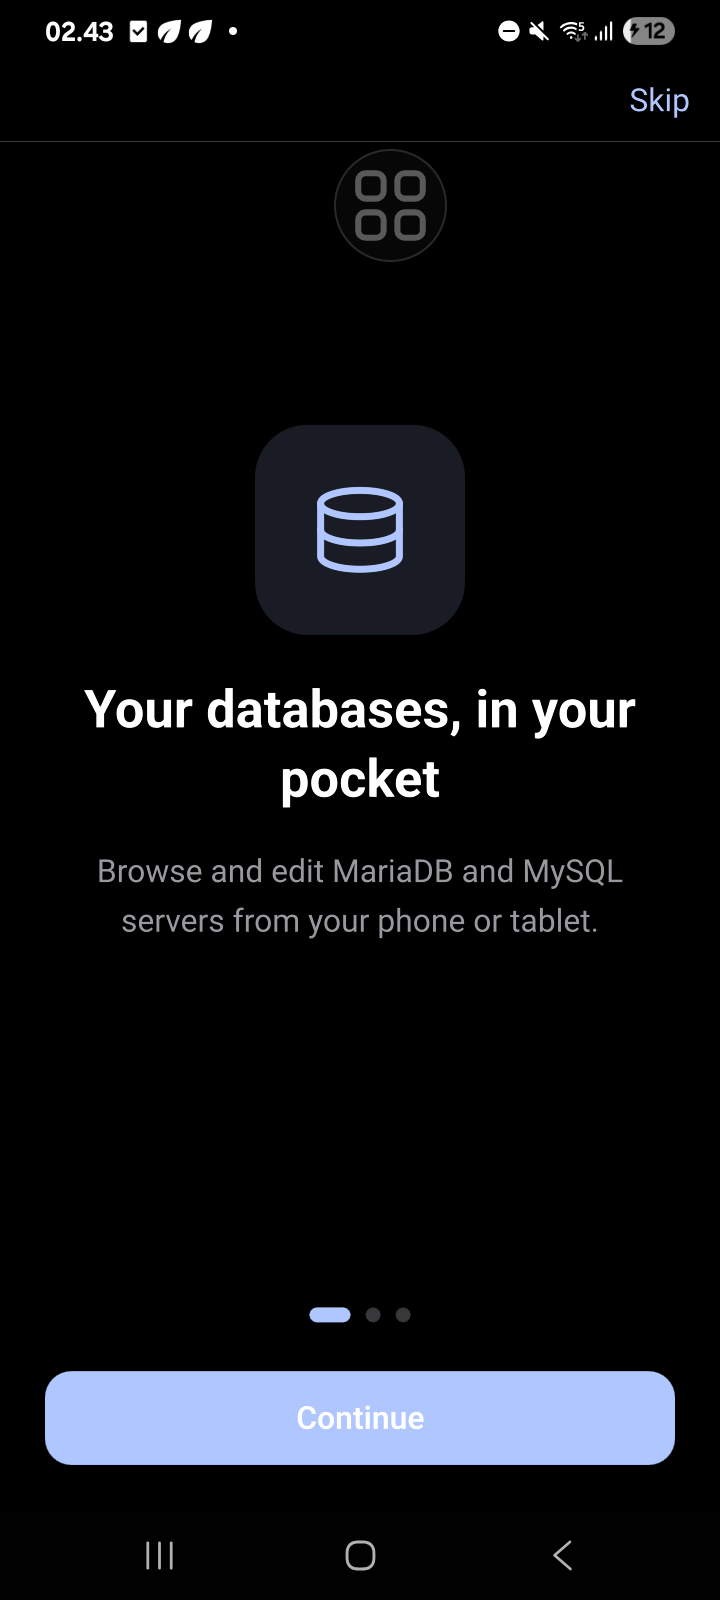
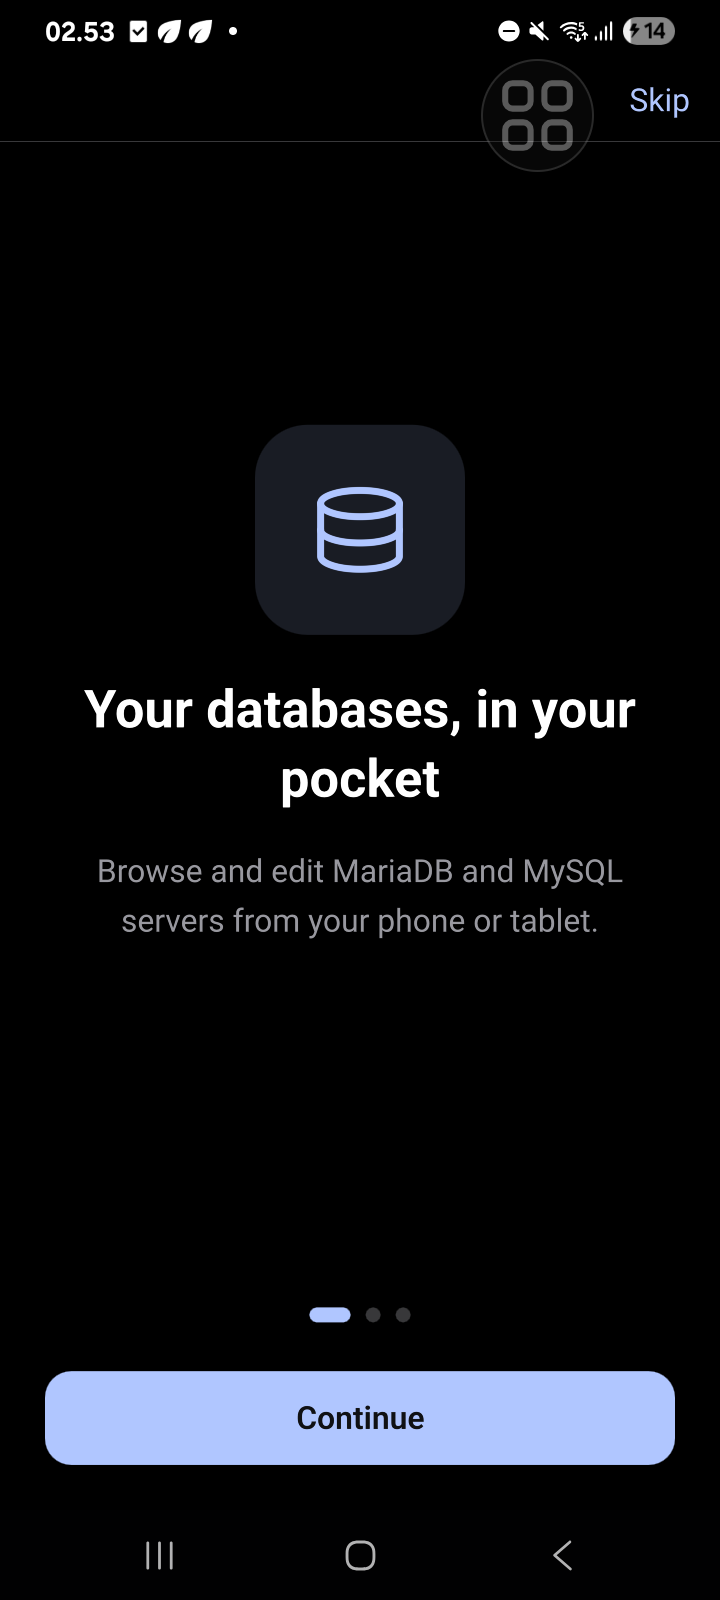
F1: keyboard-aware form scrolling

diff --git a/qml/FormFlickable.qml b/qml/FormFlickable.qml
@@ -1,0 +1,31 @@
+import QtQuick
+
+// Scrolling form container: shrinks above the on-screen keyboard and keeps the focused field visible.
+Flickable {
+    id: f
+    default property alias content: holder.data
+    property real contentPadding: 48
+
+    anchors.bottomMargin: Theme.safeIme
+    contentWidth: width
+    contentHeight: holder.childrenRect.height + (Theme.safeIme > 0 ? 24 : Theme.safeBottom + contentPadding)
+    boundsBehavior: Flickable.StopAtBounds
+    clip: true
+    interactive: contentHeight > height
+    onMovementStarted: Qt.inputMethod.hide()
+
+    Item { id: holder; width: f.width }
+
+    function ensureVisible() {
+        const it = Window.window ? Window.window.activeFocusItem : null
+        if (!it || !it.visible) return
+        // walk up to check it lives inside this flickable
+        for (var p = it; p; p = p.parent) if (p === holder) break
+        if (!p) return
+        const y = it.mapToItem(holder, 0, 0).y
+        if (y < contentY) contentY = Math.max(0, y - 16)
+        else if (y + it.height > contentY + height) contentY = Math.min(contentHeight - height, y + it.height - height + 16)
+    }
+    Connections { target: Window.window; function onActiveFocusItemChanged() { Qt.callLater(f.ensureVisible) } }
+    Connections { target: Theme; function onSafeImeChanged() { Qt.callLater(f.ensureVisible) } }
+}

diff --git a/qml/Theme.qml b/qml/Theme.qml
@@ -33,6 +33,7 @@ QtObject {
     readonly property real safeTop: platform ? platform.insets.top : 0
     readonly property real safeBottom: platform ? platform.insets.bottom : 0
     readonly property real safeLeft: platform ? platform.insets.left : 0
+    readonly property real safeIme: platform ? platform.insets.ime : 0   // on-screen keyboard height
     readonly property real safeRight: platform ? platform.insets.right : 0
 
     readonly property var labelColors: ["#007AFF", "#34C759", "#FF9500", "#FF3B30",

diff --git a/qml/ConnectionForm.qml b/qml/ConnectionForm.qml
@@ -39,14 +39,9 @@ Rectangle {
         function onTestFinished(ok, message) { page.testOk = ok; page.testMessage = message }
     }
 
-    Flickable {
+    FormFlickable {
         id: flick
         anchors { fill: parent; topMargin: nav.height }
-        contentHeight: col.height + Theme.safeBottom + 48
-        boundsBehavior: Flickable.StopAtBounds
-        clip: true
-        interactive: contentHeight > height
-        onMovementStarted: Qt.inputMethod.hide()
 
         Column {
             id: col

diff --git a/qml/SettingsPage.qml b/qml/SettingsPage.qml
@@ -5,14 +5,9 @@ Rectangle {
     signal done()
     color: Theme.bg
 
-    Flickable {
+    FormFlickable {
         id: flick
         anchors { fill: parent; topMargin: nav.height }
-        contentHeight: col.height + Theme.safeBottom + 48
-        boundsBehavior: Flickable.StopAtBounds
-        clip: true
-        interactive: contentHeight > height
-        onMovementStarted: Qt.inputMethod.hide()
 
         Column {
             id: col

diff --git a/src/Platform.h b/src/Platform.h
@@ -5,7 +5,7 @@
 // Android integration (dynamic accent, system bar insets/appearance). No-ops on desktop.
 class Platform : public QObject {
     Q_OBJECT
-    Q_PROPERTY(QVariantMap insets READ insets NOTIFY insetsChanged)  // dp: top,bottom,left,right
+    Q_PROPERTY(QVariantMap insets READ insets NOTIFY insetsChanged)  // dp: top,bottom,left,right,ime
     Q_PROPERTY(QString debugStart READ debugStart CONSTANT)           // desktop preview only
 public:
     explicit Platform(QObject *parent = nullptr);
@@ -17,5 +17,5 @@ signals:
     void insetsChanged();
 private:
     void refresh();
-    QVariantMap m_insets{{"top", 0}, {"bottom", 0}, {"left", 0}, {"right", 0}};
+    QVariantMap m_insets{{"top", 0}, {"bottom", 0}, {"left", 0}, {"right", 0}, {"ime", 0}};
 };

diff --git a/src/Platform.cpp b/src/Platform.cpp
@@ -30,7 +30,8 @@ void Platform::refresh()
     if (p.size() < 4) return;
     const qreal d = QGuiApplication::primaryScreen()->devicePixelRatio();
     const QVariantMap m{{"top", p[0].toInt() / d}, {"bottom", p[1].toInt() / d},
-                        {"left", p[2].toInt() / d}, {"right", p[3].toInt() / d}};
+                        {"left", p[2].toInt() / d}, {"right", p[3].toInt() / d},
+                        {"ime", p.size() > 4 ? p[4].toInt() / d : 0.0}};
     if (m != m_insets) { m_insets = m; emit insetsChanged(); }
 #endif
 }
